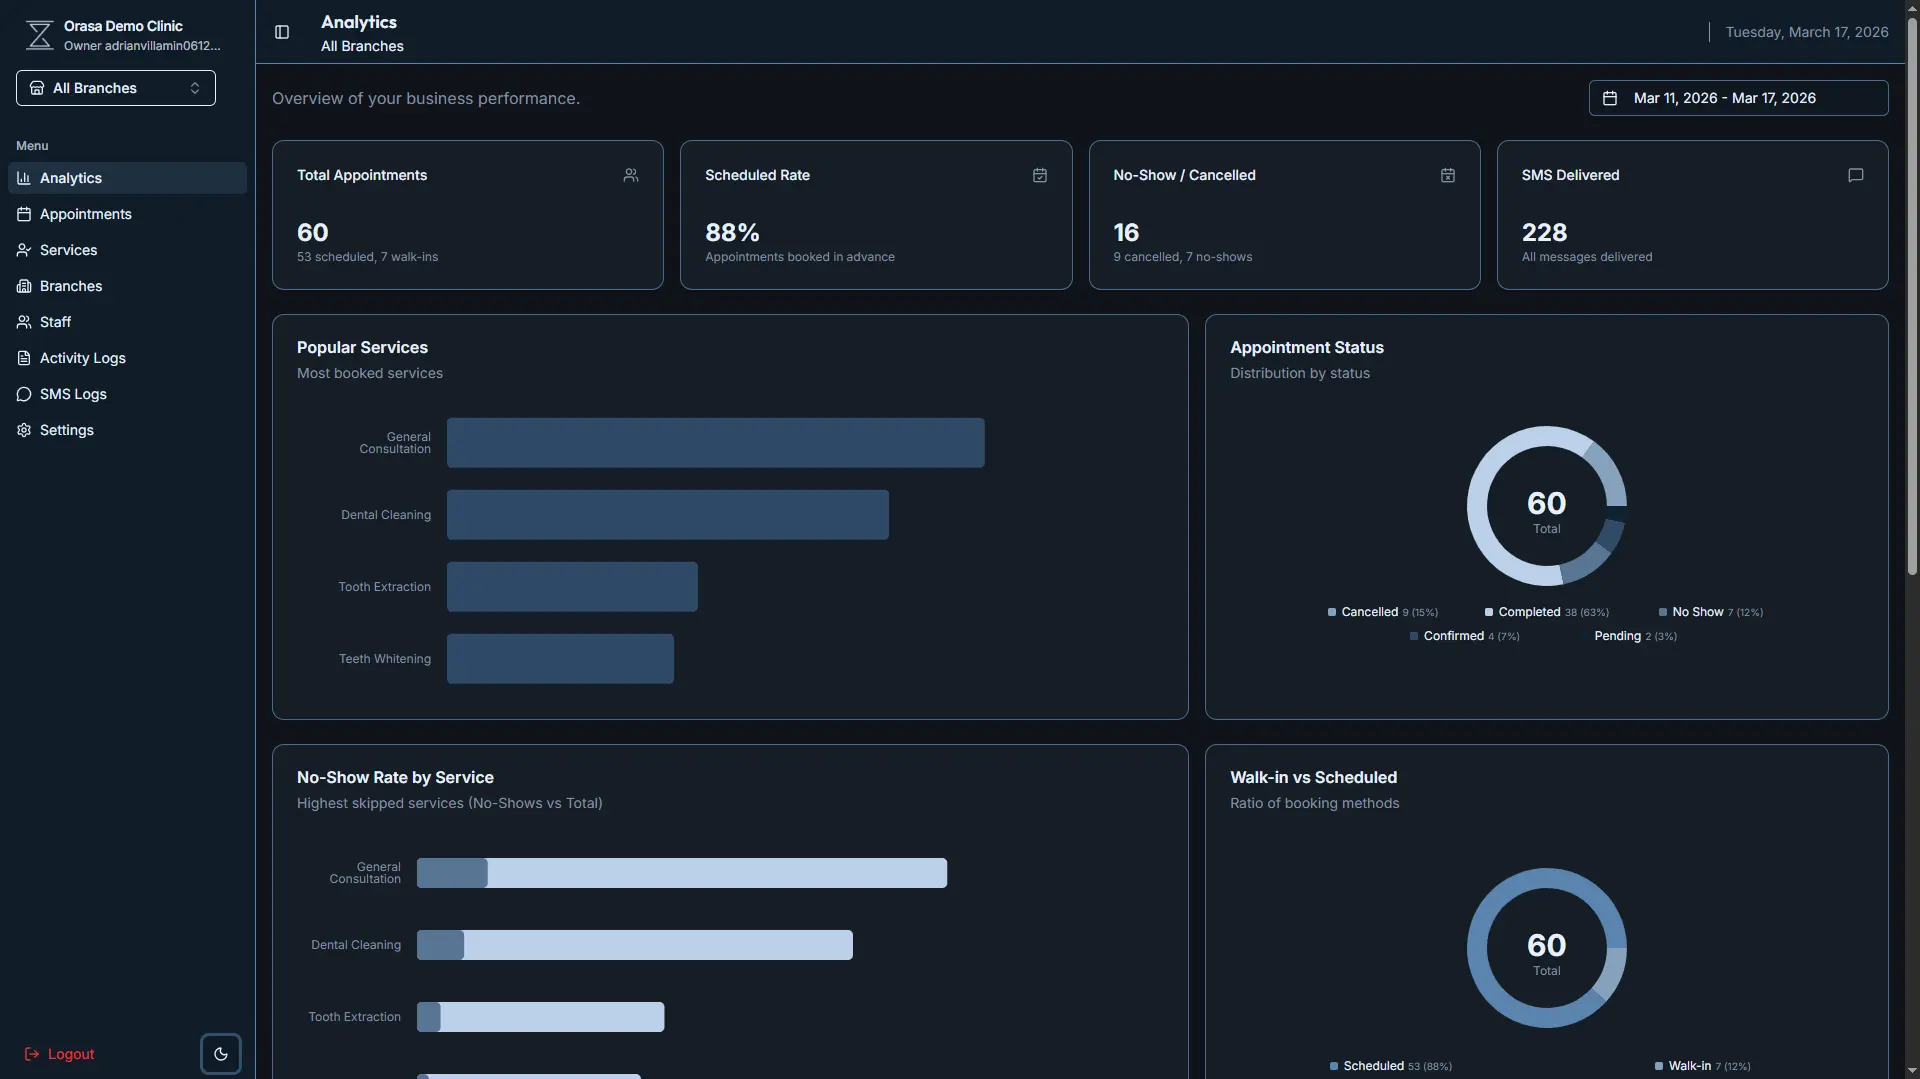
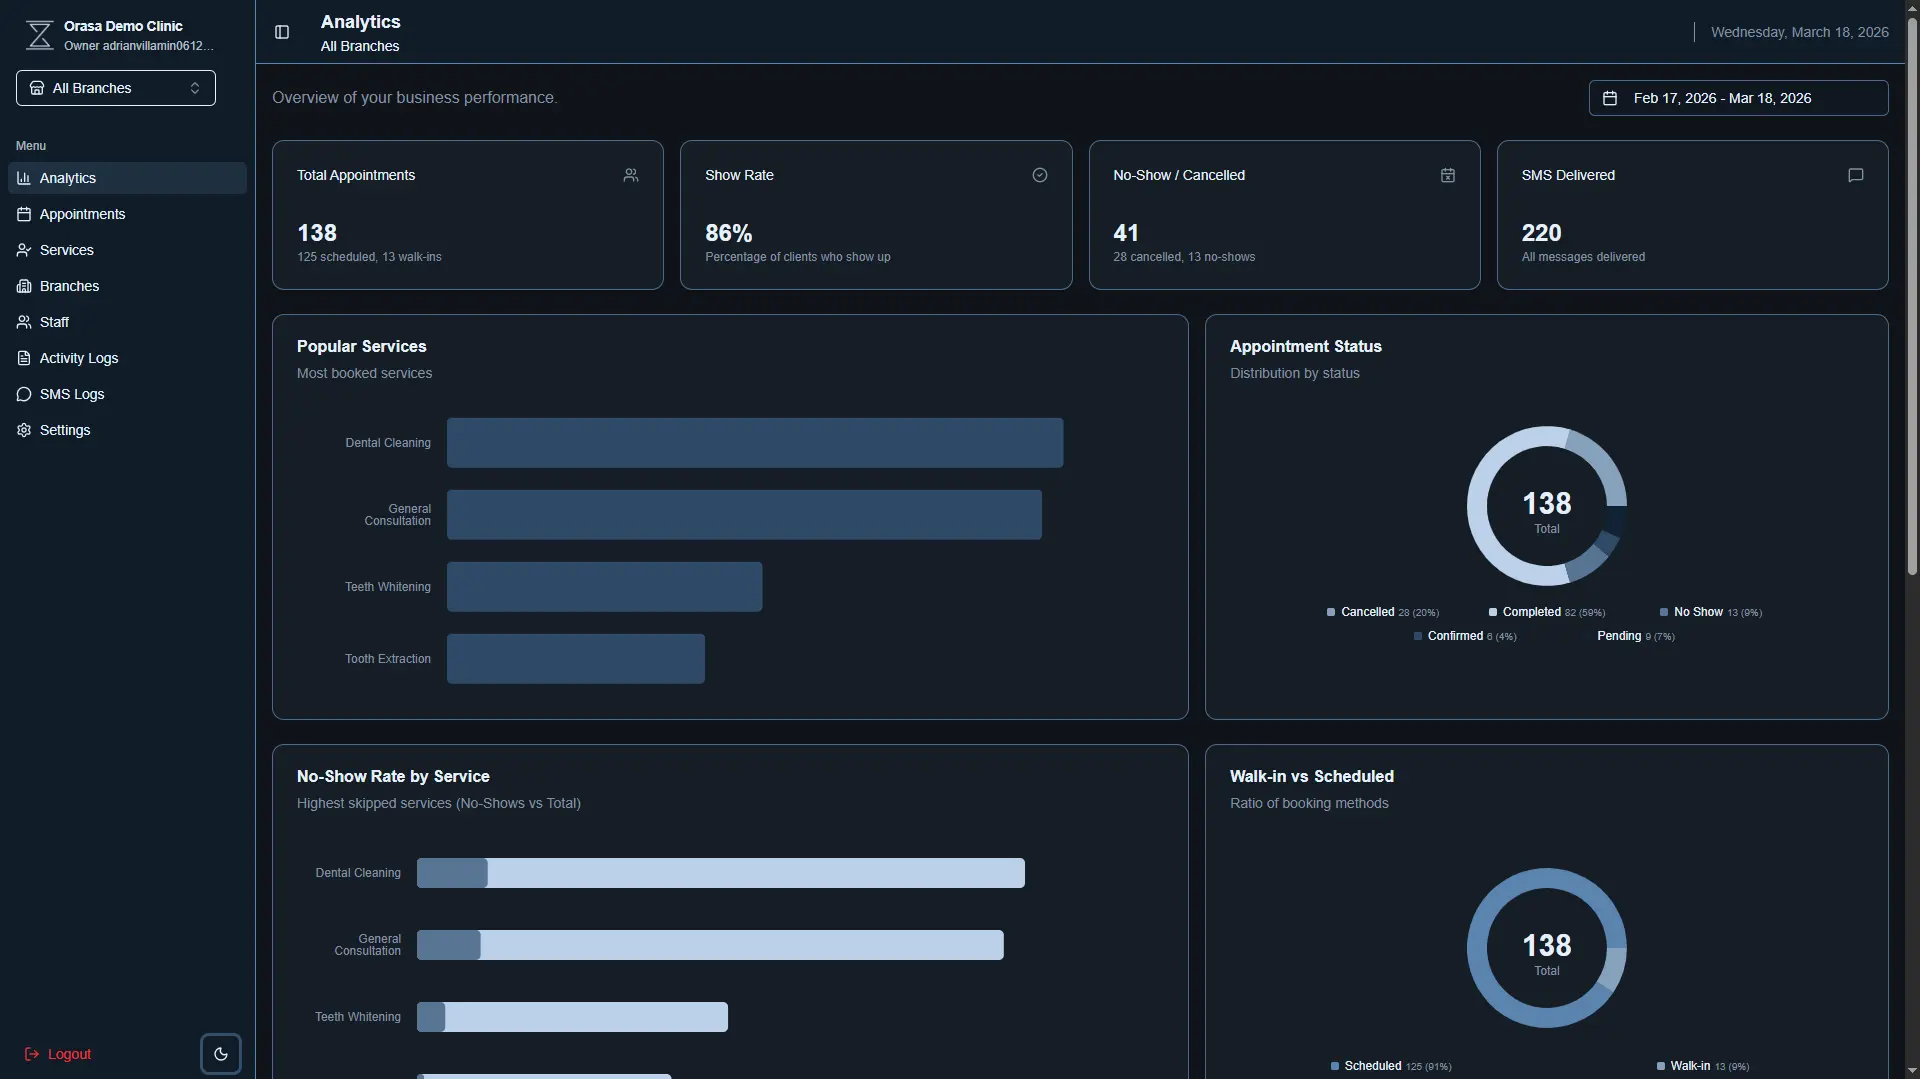
ui(dashboard): replace revenue growth with show rate metric
- Calculate show rate based on completed vs no-show appointments
- Update hero section marketing metrics to focus on attendance
- Refresh dashboard screenshots to reflect new analytics

diff --git a/src/components/dashboard/AnalyticsDashboard.tsx b/src/components/dashboard/AnalyticsDashboard.tsx
@@ -1,4 +1,4 @@
-import { Users, CalendarCheck, CalendarX, MessageSquare } from "lucide-react";
+import { Users, CheckCircle2, CalendarX, MessageSquare } from "lucide-react";
 
 import type { DashboardStats } from "@/types/analytics";
 import { StatCard } from "./StatCard";
@@ -14,8 +14,9 @@ interface AnalyticsDashboardProps {
 }
 
 export function AnalyticsDashboard({ stats }: AnalyticsDashboardProps) {
-  const scheduledRate =
-    stats.totalAppointments > 0 ? Math.round((stats.scheduledCount / stats.totalAppointments) * 100) : 0;
+  const completedCount = stats.statusStats.find((s) => s.status === "COMPLETED")?.count || 0;
+  const totalAttendedOrNoShow = completedCount + stats.noShowCount;
+  const showRate = totalAttendedOrNoShow > 0 ? Math.round((completedCount / totalAttendedOrNoShow) * 100) : 0;
 
   return (
     <div className="space-y-6">
@@ -27,10 +28,10 @@ export function AnalyticsDashboard({ stats }: AnalyticsDashboardProps) {
           icon={Users}
         />
         <StatCard
-          title="Scheduled Rate"
-          value={`${scheduledRate}%`}
-          description="Appointments booked in advance"
-          icon={CalendarCheck}
+          title="Show Rate"
+          value={`${showRate}%`}
+          description="Percentage of clients who show up"
+          icon={CheckCircle2}
         />
         <StatCard
           title="No-Show / Cancelled"

diff --git a/src/pages/HomePage.tsx b/src/pages/HomePage.tsx
@@ -216,8 +216,8 @@ const HomePage = () => {
                         <Zap className="size-6 text-blue-500" />
                       </div>
                       <div className="text-left">
-                        <p className="text-sm font-bold text-white">+12% Growth</p>
-                        <p className="text-xs text-slate-400">Monthly Revenue Increase</p>
+                        <p className="text-sm font-bold text-white">98% Show Rate</p>
+                        <p className="text-xs text-slate-400">Improved Attendance</p>
                       </div>
                     </div>
                   </div>
@@ -279,8 +279,8 @@ const HomePage = () => {
                         <Zap className="size-4 text-blue-500" />
                       </div>
                       <div className="text-left">
-                        <p className="text-[10px] font-bold text-white leading-tight">+12% Growth</p>
-                        <p className="text-[8px] text-slate-400">Revenue Update</p>
+                        <p className="text-[10px] font-bold text-white leading-tight">98% Success</p>
+                        <p className="text-[8px] text-slate-400">Show Rate</p>
                       </div>
                     </div>
                   </div>
